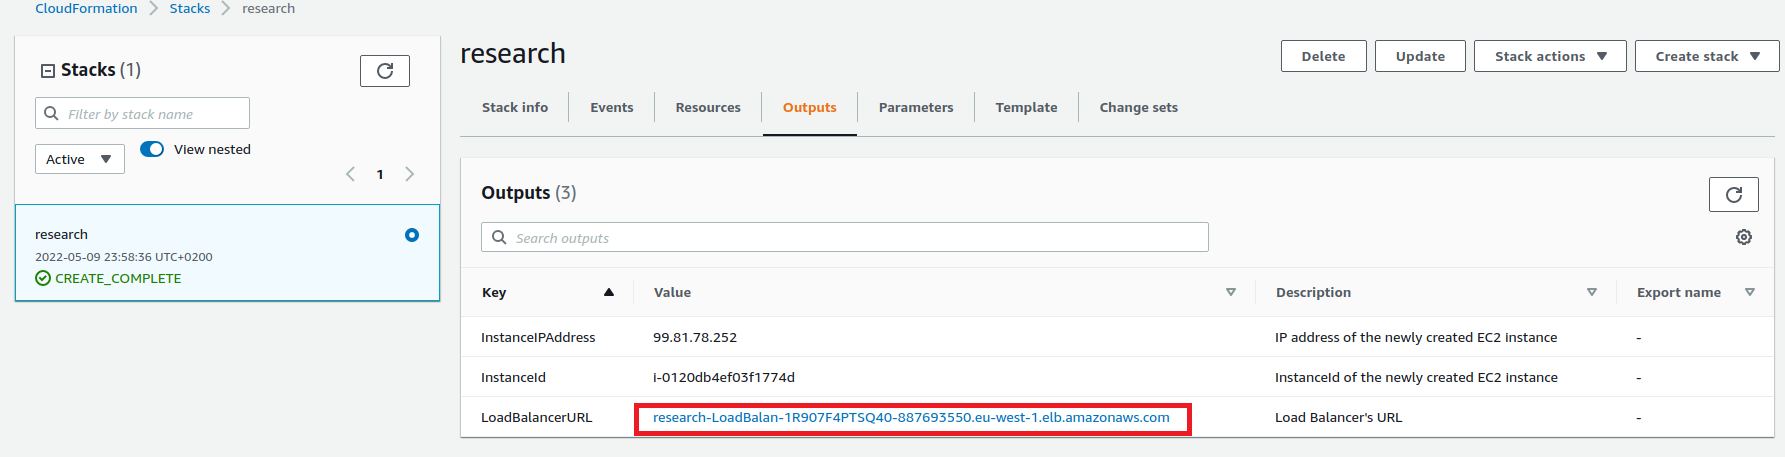
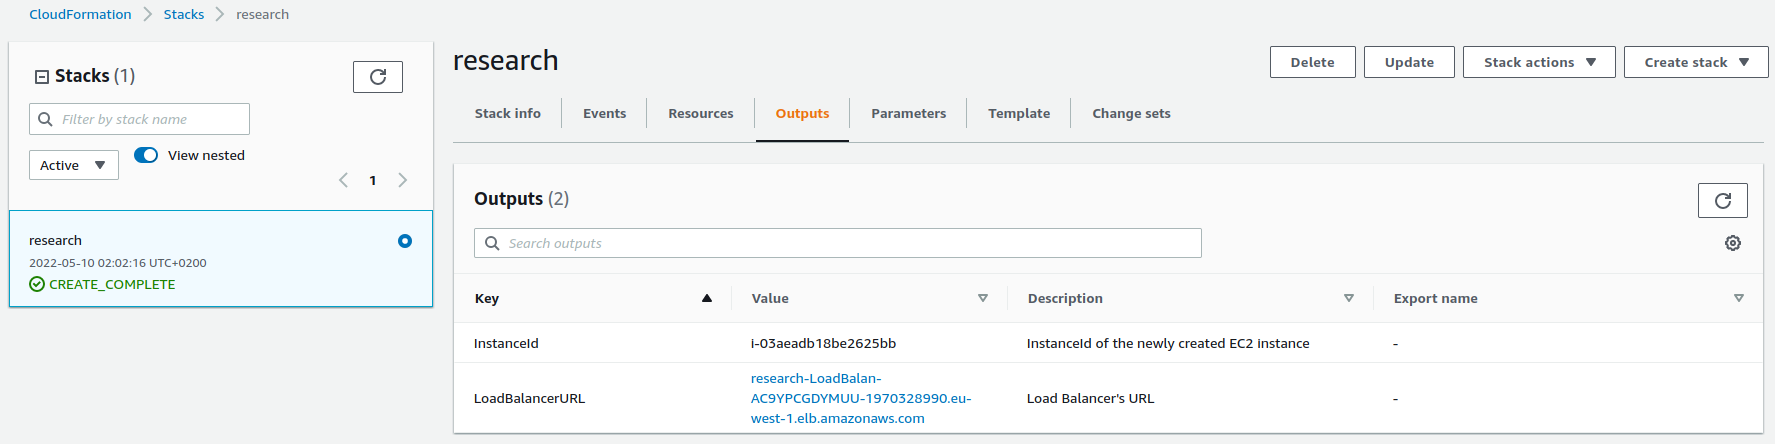
add future work and rm public ip

diff --git a/research/tutorial/README.md b/research/tutorial/README.md
@@ -21,8 +21,8 @@ In this research project/tutorial we will first use the *Designer* to get famili
 create a template that uses the *YAML* format.
 
 In the YAML file we will specify:
-- An **EC2 instance** with a *private key*, a *public IP address* and *security group* attached to it. The instance will 
-also start with `apache` already installed.  
+- An **EC2 instance** with a *private key* and *security group* attached to it. The instance will also start with 
+the `apache2` package already installed.  
 - An **Elastic Load Balancer** that will be used to access the port 80 (through a *security group*) of the EC2 instance.
 
 
@@ -56,7 +56,8 @@ selected, and CloudFormation also lets us know that our template will be stored 
 The *Parameters* section lets you select which are the specific values of the resources of this Stack. Choose
 1. IntanceType: `t2.micro`.
 2. KeyName: choose one you have already created for other lab sessions.
-3. SSHLocation: It is the IP address range that can be used to SSH to the EC2 instances. It can be your home or the UPC.
+3. SSHLocation: It is the IP address range that can be used to SSH to the EC2 instances. It can be your home or the UPC 
+subnet.
 
 Create the Stack and wait for the resources to be allocated. When the creation is complete, you can access the *Resources*
 tab and check the allocations. The *Template* tab shows the JSON code for the template. 
@@ -115,10 +116,11 @@ This section specifies all the AWS resources that are going to be created in the
 2. Security group attached to the EC2.
 3. Elastic Load Balancer, listening to port 80.
 4. Security group attached to the ELB. 
-5. Public IP address that will let us connect to the EC2. 
 
-The following code is the specification of the EC2 instance, its Security Group, public IP address, Availability Zone and Image ID (ubuntu-18). The code will also install the apache web server in the EC2 instance by the linux commands. 
-This is possible by specifying the linux commands to execute in the `UserData` parameter, is necessary to put also the following parameters `Fn::Base64: !Sub |` before the commands. Is important to highlight that th
+The following code is the specification of the EC2 instance, its Security Group, Availability Zone and Image ID (ubuntu-18). 
+The code will also install the apache web server in the EC2 instance by the linux commands. This is possible by specifying 
+the linux commands to execute in the `UserData` parameter, is necessary to put also the following parameters `Fn::Base64: !Sub |` 
+before the commands. 
 
 Finally, the link between resources is made with the `!Ref` tag or `Ref: reference`.
 
@@ -183,17 +185,15 @@ Resources:
         Timeout: '5'
       SecurityGroups:
         - !GetAtt ELBSecurityGroup.GroupId
-  IPAddress:
-    Type: AWS::EC2::EIP
 ```
 
 ### Outputs
 This section specifies which will be the outputs of the Stack creation in the tab *Outputs*. In our case there are:
-1. The ID of the EC2 instance. 
-2. The public IP associated to the Instance.
-3. The ELB URL. 
+1. The ID of the EC2 instance.
+2. The ELB URL. 
 
-The way to get some values like from the elements deployed, like the URL, Name, etc. is by using the `!GetAtt element.field` tag further information in [this link](https://docs.aws.amazon.com/es_es/AWSCloudFormation/latest/UserGuide/intrinsic-function-reference-getatt.html).
+The way to get some values like from the elements deployed, like the URL, Name, etc. is by using the `!GetAtt element.field` 
+tag. Further information in [this link](https://docs.aws.amazon.com/es_es/AWSCloudFormation/latest/UserGuide/intrinsic-function-reference-getatt.html).
 
 ```yaml
 Outputs:
@@ -201,10 +201,6 @@ Outputs:
     Description: InstanceId of the newly created EC2 instance
     Value:
       Ref: EC2Instance2
-  InstanceIPAddress:
-    Description: IP address of the newly created EC2 instance
-    Value:
-      Ref: IPAddress
   LoadBalancerURL:
     Description: Load Balancer's URL
     Value: !GetAtt LoadBalancerforEC2.DNSName
@@ -214,7 +210,7 @@ You can find the complete YAML template file in [research.yaml](templates/resear
 to understand how all the resources are created and linked among them.
 
 # Deployment of the template
-In this section you are going to deploy the infrastructure specified in the `research.yaml` YAML file using the 
+In this section you are going to deploy the infrastructure specified in the `research.yaml` file using the 
 CloudFormation console in AWS. 
 
 ### Stack creation 
@@ -250,8 +246,7 @@ Last, you can also check if the Load Balancer is running with the parameters spe
 ![img](img/loadbalancer-created.png)
 
 ### EC2 SSH connection 
-Now that the EC2 Instance is running, you have to check that you can connect to it through the IP specified in the `SshIp` 
-parameter using the private key.
+Now that the EC2 Instance is running, you have to check that you can connect to it using the private key.
 
 ![img](img/ssh-connection.png)
 
@@ -267,4 +262,18 @@ We can check also that the apache web server is running perfectly and, it is acc
 
 #### Q2: Code a YAML file that creates a Load Balancer that redirect the traffic from port 80 to the EC2Instance. The EC2Instance will only listen from port 80 and from the security group of the Load Balancer. Upload your README.md and your YAML code with the respective images.
 -->
-
+# Future work
+This tutorial focuses on the infrastructure deployment and automation, but there are many paths that those that found it
+interesting can follow. We propose one
+1. You can search for a *Github* repository of a basic web application and, first, clone it in the running EC2 instance 
+connecting through SSH. Then, change the necessary Apache configuration so that when accessing the Load Balancer URL it 
+now serves the application. 
+2. Once the new application is running correctly, automate its deployment by adding the correct commands to the YAML file.
+Remember that we have already automated the installation of Apache. 
+```yaml
+UserData: 
+        Fn::Base64: !Sub |
+          #!/bin/bash
+          sudo apt -y update
+          sudo apt -y install apache2
+```
